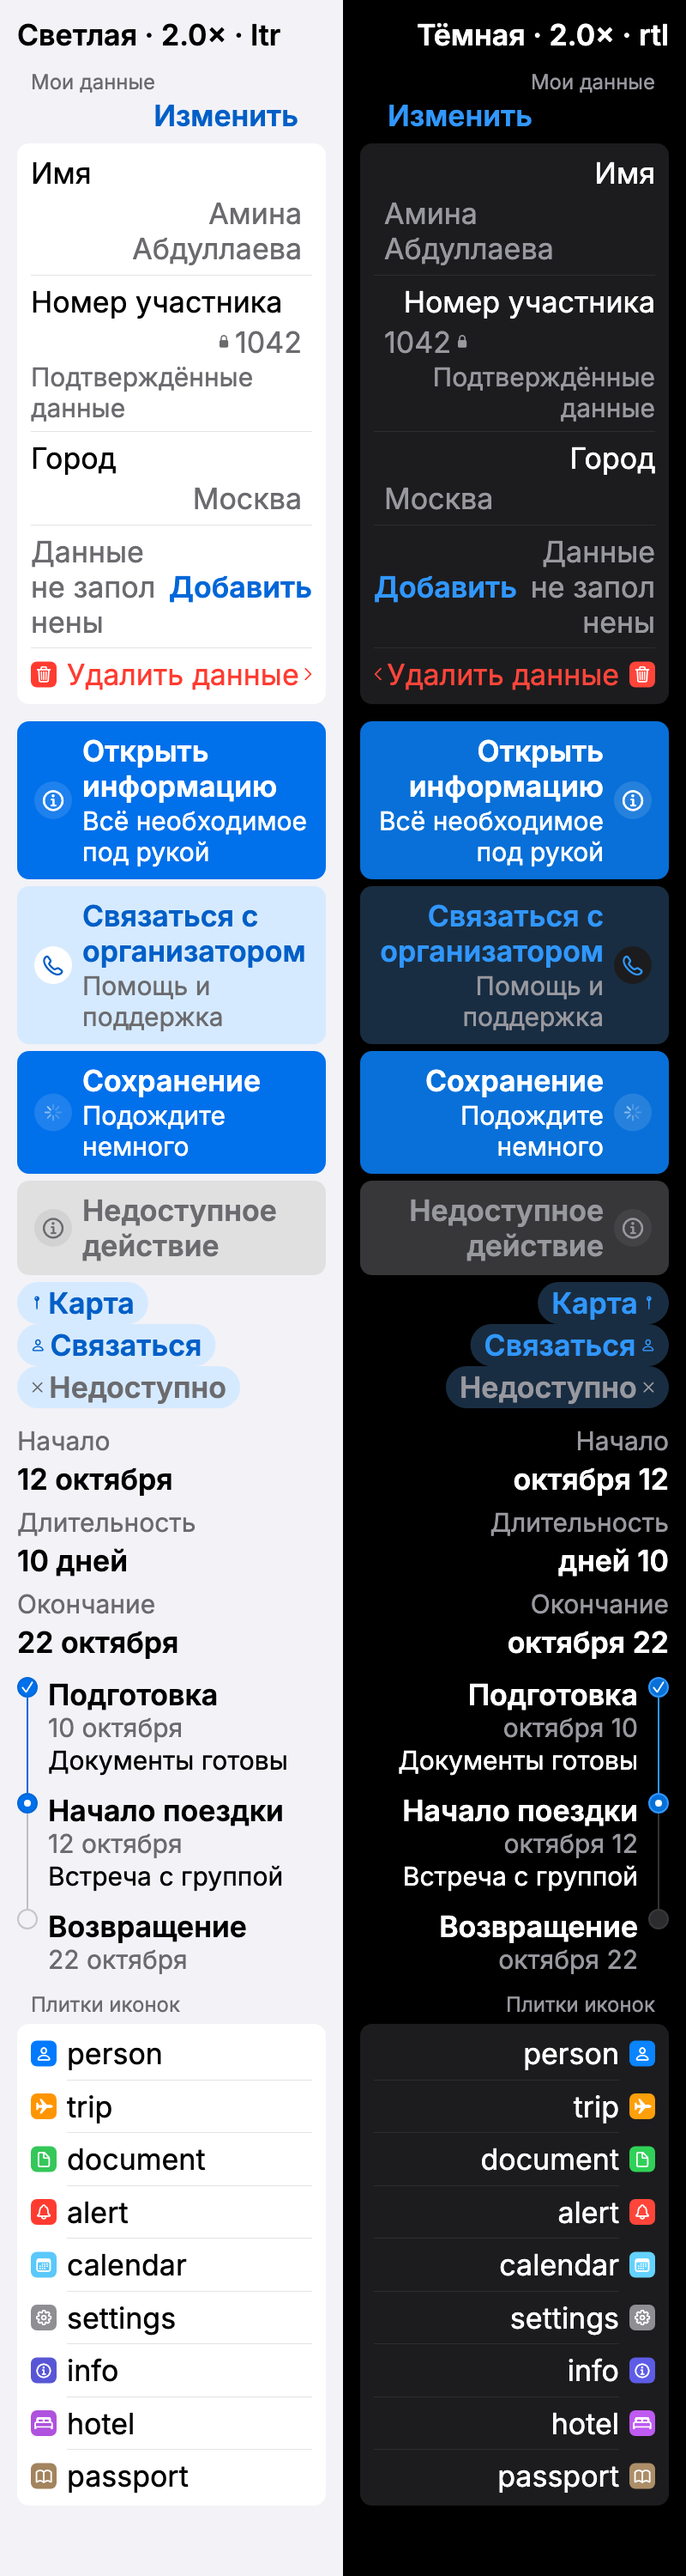
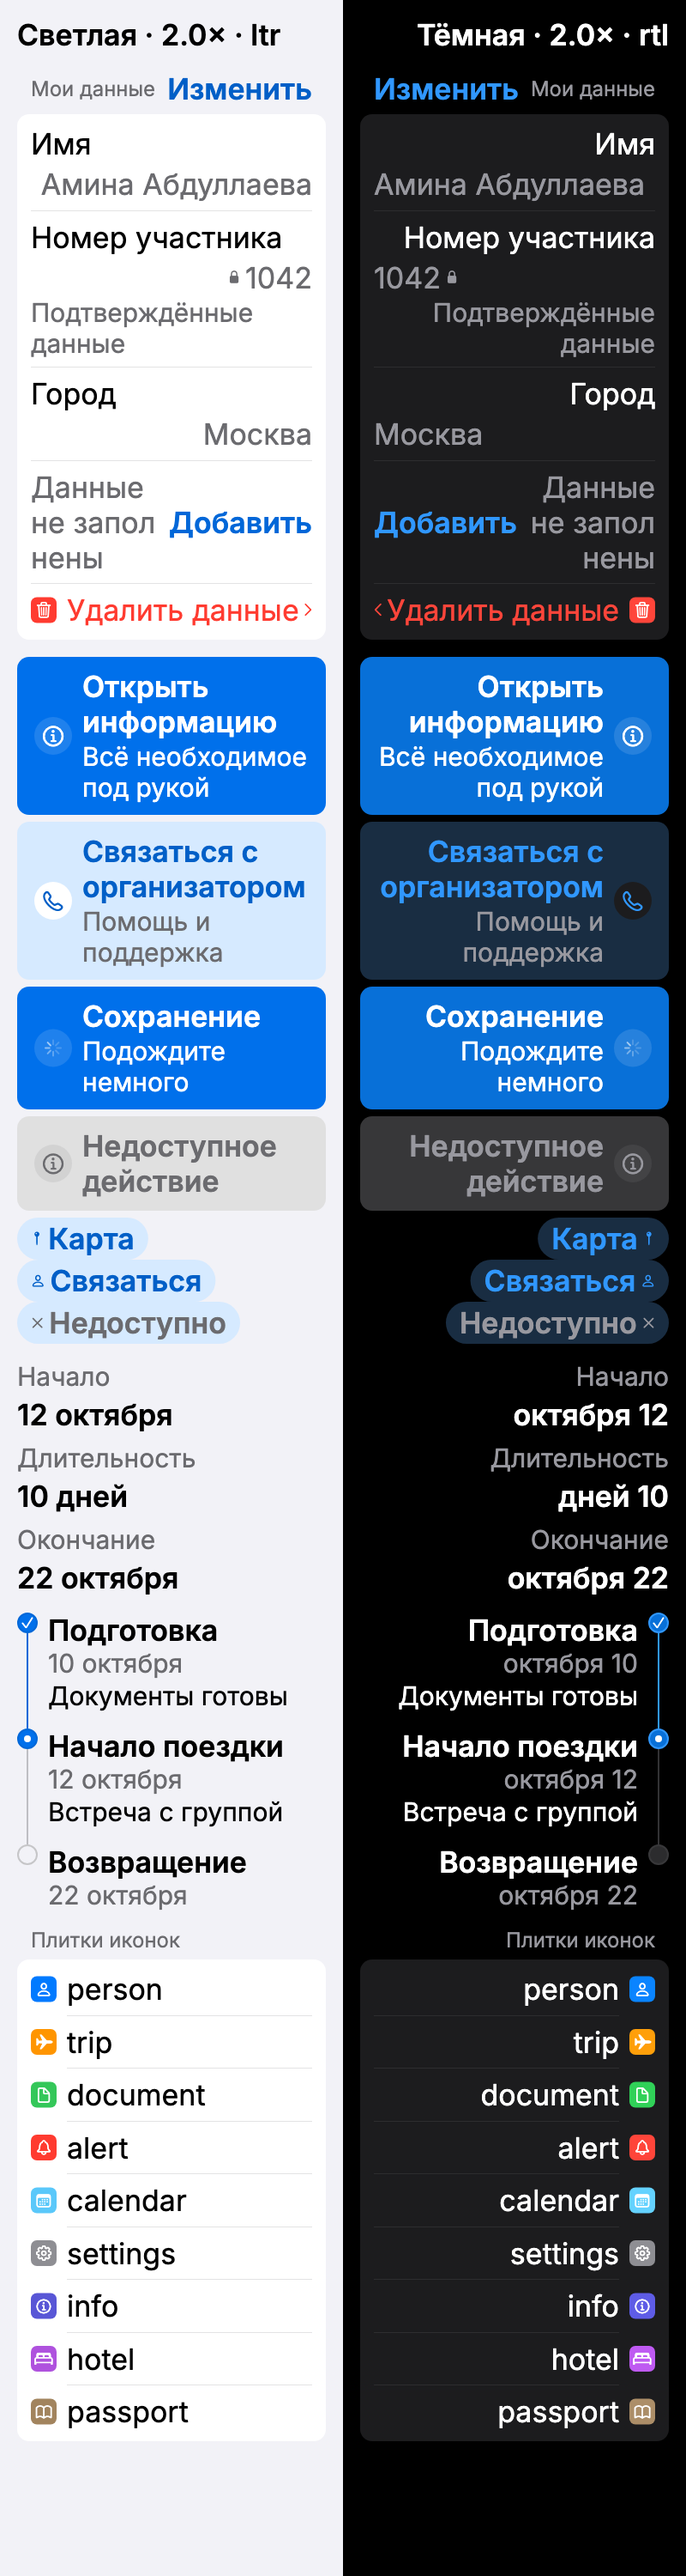
fix: align section header action with table content edge

diff --git a/packages/academy_ui/test/profile_components_test.dart b/packages/academy_ui/test/profile_components_test.dart
@@ -284,6 +284,51 @@ void main() {
     }
   }
 
+  for (final scale in [1.0, 2.0]) {
+    for (final direction in TextDirection.values) {
+      testWidgets('header action aligns with row edge $scale $direction', (
+        tester,
+      ) async {
+        tester.view.physicalSize = const Size(320, 844);
+        tester.view.devicePixelRatio = 1;
+        addTearDown(tester.view.reset);
+        await tester.pumpWidget(
+          host(
+            Column(
+              children: [
+                AcademyTableHeader.action(
+                  title: 'Мои данные',
+                  action: 'Изменить',
+                  onPressed: () {},
+                ),
+                const AcademyTableBody(
+                  rows: [AcademyValueRow(label: 'Имя', value: 'Амина')],
+                ),
+              ],
+            ),
+            scale: scale,
+            direction: direction,
+          ),
+        );
+        final action = tester.getRect(find.text('Изменить'));
+        final heading = tester.getRect(find.text('Мои данные'));
+        final rowValue = tester.getRect(find.text('Амина'));
+        if (direction == TextDirection.ltr) {
+          expect(action.right, closeTo(rowValue.right, .01));
+        } else {
+          expect(action.left, closeTo(rowValue.left, .01));
+        }
+        expect(action.center.dy, closeTo(heading.center.dy, 1));
+        final target = find.descendant(
+          of: find.byType(AcademyTableHeader),
+          matching: find.byType(CupertinoButton),
+        );
+        expect(tester.getSize(target).height, greaterThanOrEqualTo(44));
+        expect(tester.takeException(), isNull);
+      });
+    }
+  }
+
   testWidgets('pill fill 36 with 44 target and tappable outer margin', (
     tester,
   ) async {

diff --git a/packages/academy_ui/lib/src/widgets/table/academy_table.dart b/packages/academy_ui/lib/src/widgets/table/academy_table.dart
@@ -90,33 +90,23 @@ class AcademyTableHeader extends StatelessWidget {
       icon: actionIcon,
       onPressed: onAction,
       tinted: false,
+      padding: EdgeInsets.zero,
     );
     return Padding(
       padding: padding ?? theme.paddings.tableHeader,
       child: LayoutBuilder(
         builder: (context, constraints) {
-          if (actionLabel != null &&
-              (MediaQuery.textScalerOf(context).scale(1) >=
-                      AcademyTokens.adaptiveTextScale ||
-                  constraints.maxWidth <
-                      AcademyTokens.metadataHorizontalWidth)) {
-            return Column(
-              crossAxisAlignment: CrossAxisAlignment.stretch,
-              children: [
-                heading,
-                Align(
-                  alignment: AlignmentDirectional.centerEnd,
-                  child: action(),
-                ),
-              ],
-            );
-          }
           return Row(
             children: [
               Expanded(child: heading),
               if (actionLabel != null) ...[
                 const SizedBox(width: AcademyTokens.inlineGap),
-                Flexible(child: action()),
+                ConstrainedBox(
+                  constraints: BoxConstraints(
+                    maxWidth: constraints.maxWidth * .6,
+                  ),
+                  child: action(),
+                ),
               ],
               if (trailing != null) ...[
                 const SizedBox(width: AcademyTokens.inlineGap),

diff --git a/packages/academy_ui/lib/src/widgets/button/academy_pill_button.dart b/packages/academy_ui/lib/src/widgets/button/academy_pill_button.dart
@@ -14,6 +14,7 @@ class AcademyPillButton extends StatelessWidget {
     this.icon,
     this.onPressed,
     this.tinted = true,
+    this.padding,
   });
   final String label;
   final IconData? icon;
@@ -21,6 +22,9 @@ class AcademyPillButton extends StatelessWidget {
 
   /// false is the quiet text action used by section headers.
   final bool tinted;
+
+  /// Insets of the visible content; the outer 44pt target is preserved.
+  final EdgeInsetsGeometry? padding;
   @override
   Widget build(BuildContext context) {
     final theme = AcademyTheme.of(context);
@@ -46,10 +50,12 @@ class AcademyPillButton extends StatelessWidget {
                   borderRadius: BorderRadius.circular(theme.radii.menuButton),
                 ),
                 child: Padding(
-                  padding: EdgeInsets.symmetric(
-                    horizontal: theme.paddings.menuButton.left,
-                    vertical: AcademyTokens.space / 2,
-                  ),
+                  padding:
+                      padding ??
+                      EdgeInsets.symmetric(
+                        horizontal: theme.paddings.menuButton.left,
+                        vertical: AcademyTokens.space / 2,
+                      ),
                   child: Row(
                     mainAxisSize: MainAxisSize.min,
                     children: [

diff --git a/packages/academy_ui/lib/src/widgets/table/academy_row.dart b/packages/academy_ui/lib/src/widgets/table/academy_row.dart
@@ -20,6 +20,7 @@ class AcademyRow extends StatelessWidget {
     this.tone,
     this.actionLabel,
     this.trailing,
+    this.showChevron = true,
     this.onPressed,
     this.leading,
     this.titleWidget,
@@ -46,6 +47,7 @@ class AcademyRow extends StatelessWidget {
   }) : actionLabel = action,
        iconBackgroundColor = null,
        trailing = null,
+       showChevron = false,
        leading = null,
        titleWidget = null,
        subtitleWidget = null,
@@ -69,6 +71,9 @@ class AcademyRow extends StatelessWidget {
   final double? verticalPadding;
   final double? horizontalPadding;
   final Widget? trailing;
+
+  /// Navigation accessory; does not reserve space when hidden.
+  final bool showChevron;
   final VoidCallback? onPressed;
   @override
   Widget build(BuildContext context) {
@@ -199,7 +204,7 @@ class AcademyRow extends StatelessWidget {
           if (trailing != null) ...[
             const SizedBox(width: AcademyTokens.inlineGap),
             trailing!,
-          ] else if (onPressed != null && actionLabel == null)
+          ] else if (onPressed != null && actionLabel == null && showChevron)
             AcademySfIcon(AcademySymbols.forward, size: 16, color: toneColor),
         ],
       ),

diff --git a/packages/academy_ui/lib/src/widgets/table/academy_value_row.dart b/packages/academy_ui/lib/src/widgets/table/academy_value_row.dart
@@ -37,7 +37,7 @@ class AcademyValueRow extends StatelessWidget {
         subtitle: subtitle,
         onPressed: callback,
         enabled: enabled,
-        trailing: const SizedBox.shrink(),
+        showChevron: false,
         titleWidget: LayoutBuilder(
           builder: (context, constraints) {
             final labelText = Text(label, style: theme.textTheme.bodyLarge);

diff --git a/packages/academy_ui/README.md b/packages/academy_ui/README.md
@@ -646,7 +646,7 @@ colorsBuilder: (brightness, accent) => AcademyPalette(brightness, accent).copyWi
 | `AcademyRow.action(title:, action:, onPressed:, enabled:)` | Акцентное текстовое действие, вся строка — одна кнопка. |
 | `AcademyActionButton(title:, subtitle:, icon:, onPressed:, pending:, style:)` | Крупная двухстрочная кнопка с круглой иконкой, минимум 64 pt; стили `AcademyButtonStyle.primary/tinted`. `onPressed: null` отключает, `pending` блокирует действие и объявляет загрузку. |
 | `AcademyPillButton(label:, icon:, onPressed:)` | Тонированная таблетка: заливка 36 pt, зона нажатия минимум 44×44. При крупном тексте растёт. `tinted: false` — тихое текстовое действие. |
-| `AcademyTableHeader.action(title:, action:, onPressed:, icon:, uppercase:)` | Заголовок с текстовым действием справа. По умолчанию сохраняет регистр; при крупном тексте действие занимает следующую строку и выравнивается к концу. |
+| `AcademyTableHeader.action(title:, action:, onPressed:, icon:, uppercase:)` | Заголовок с текстовым действием справа. По умолчанию сохраняет регистр; действие остаётся в одной строке с названием, у края контента секции. |
 | `AcademyTimeline(items:)` | Этапы `AcademyTimelineItem(title:, date:, subtitle:, state:)`, линия между точками; состояния `completed/current/upcoming`, порядок и состояние объявляются доступностью. Даты передаются готовыми строками. |
 | `AcademyStatGroup(stats:, alignment:)` | 2–3 элемента `AcademyStat(label:, value:)`; `AcademyStatAlignment.start/center/end`, отдельно для элемента через `AcademyStat.alignment`. При узкой ширине или шрифте от 1.5× — вертикальный список. |
[1 lines of base64/hex data omitted]

diff --git a/docs/tasks/2026-10-03-yalla-profile-components/task.md b/docs/tasks/2026-10-03-yalla-profile-components/task.md
@@ -65,6 +65,8 @@ Ownership: компоненты не владеют данными и состо
 
 - 2026-10-03: по замечанию владельца исправлены оформление и композиция: действие AcademyRow.action закреплено у конца строки при 1×/2× и RTL; в демонстрации пустой строки убрана лишняя иконка. Красный тон строки использует роль alert вместо бордового/розового статуса, стрелка повторяет тон. Вторичная ActionButton получила нейтральный круг и приглушённую подпись по макету. ValueRow не делит ширину поровну без необходимости; статистика показана одним блоком с выравниванием отдельных колонок. Добавлены 4 регрессионные проверки координат действия.
 
+- 2026-10-03: исправлено положение действия заголовка: текст «Изменить» закреплён у края контента секции без внутреннего отступа таблетки и остаётся в строке с названием. У ValueRow убран невидимый accessory и его лишний зазор, значения выровнены с действием заголовка. Добавлены 4 проверки координат и зоны нажатия при 1×/2× и RTL.
+
 ## Documentation status
 
 README пакета и каталога обновлены; реализация и проверки описаны выше.
